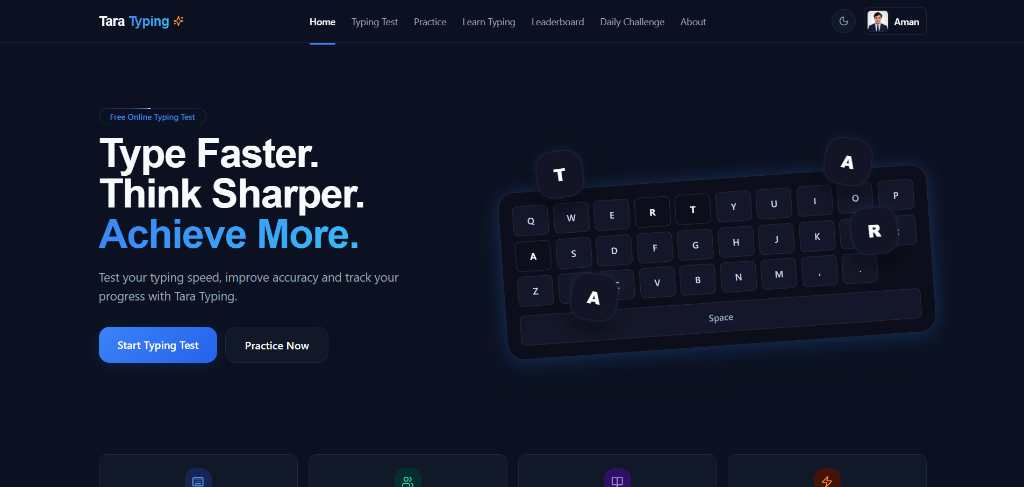
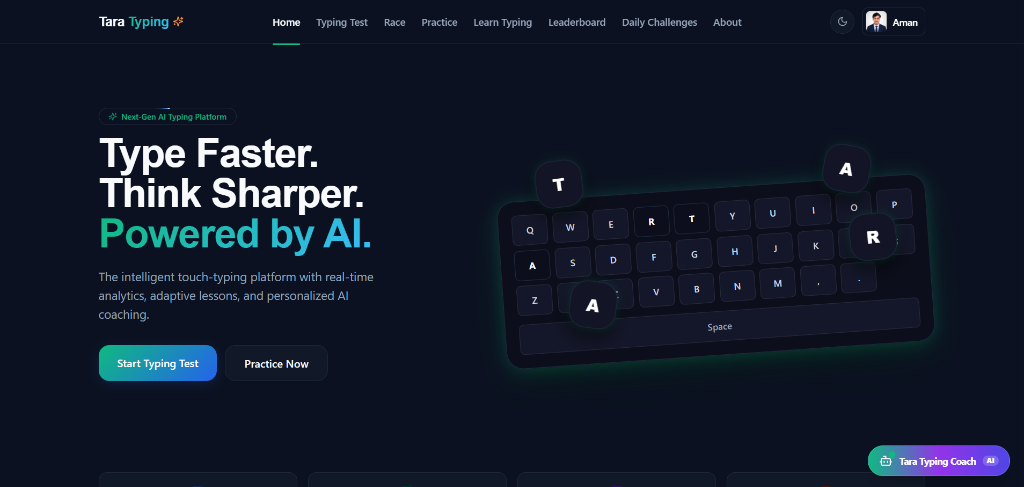
docs(readme): update landing page hero screenshot and tagline to AI-powered theme

diff --git a/README.md b/README.md
@@ -2,7 +2,7 @@
 
 <div align="center">
 
-> *"Type Faster. Think Sharper. Master Touch Typing with Real-Time Precision & AI Coaching."*
+> *"Type Faster. Think Sharper. Powered by AI — Master Touch Typing with Real-Time Precision & AI Coaching."*
 
 [![React](https://img.shields.io/badge/React-18.3-blue.svg?logo=react)](https://reactjs.org/)
 [![Vite](https://img.shields.io/badge/Vite-5.4-purple.svg?logo=vite)](https://vitejs.dev/)
